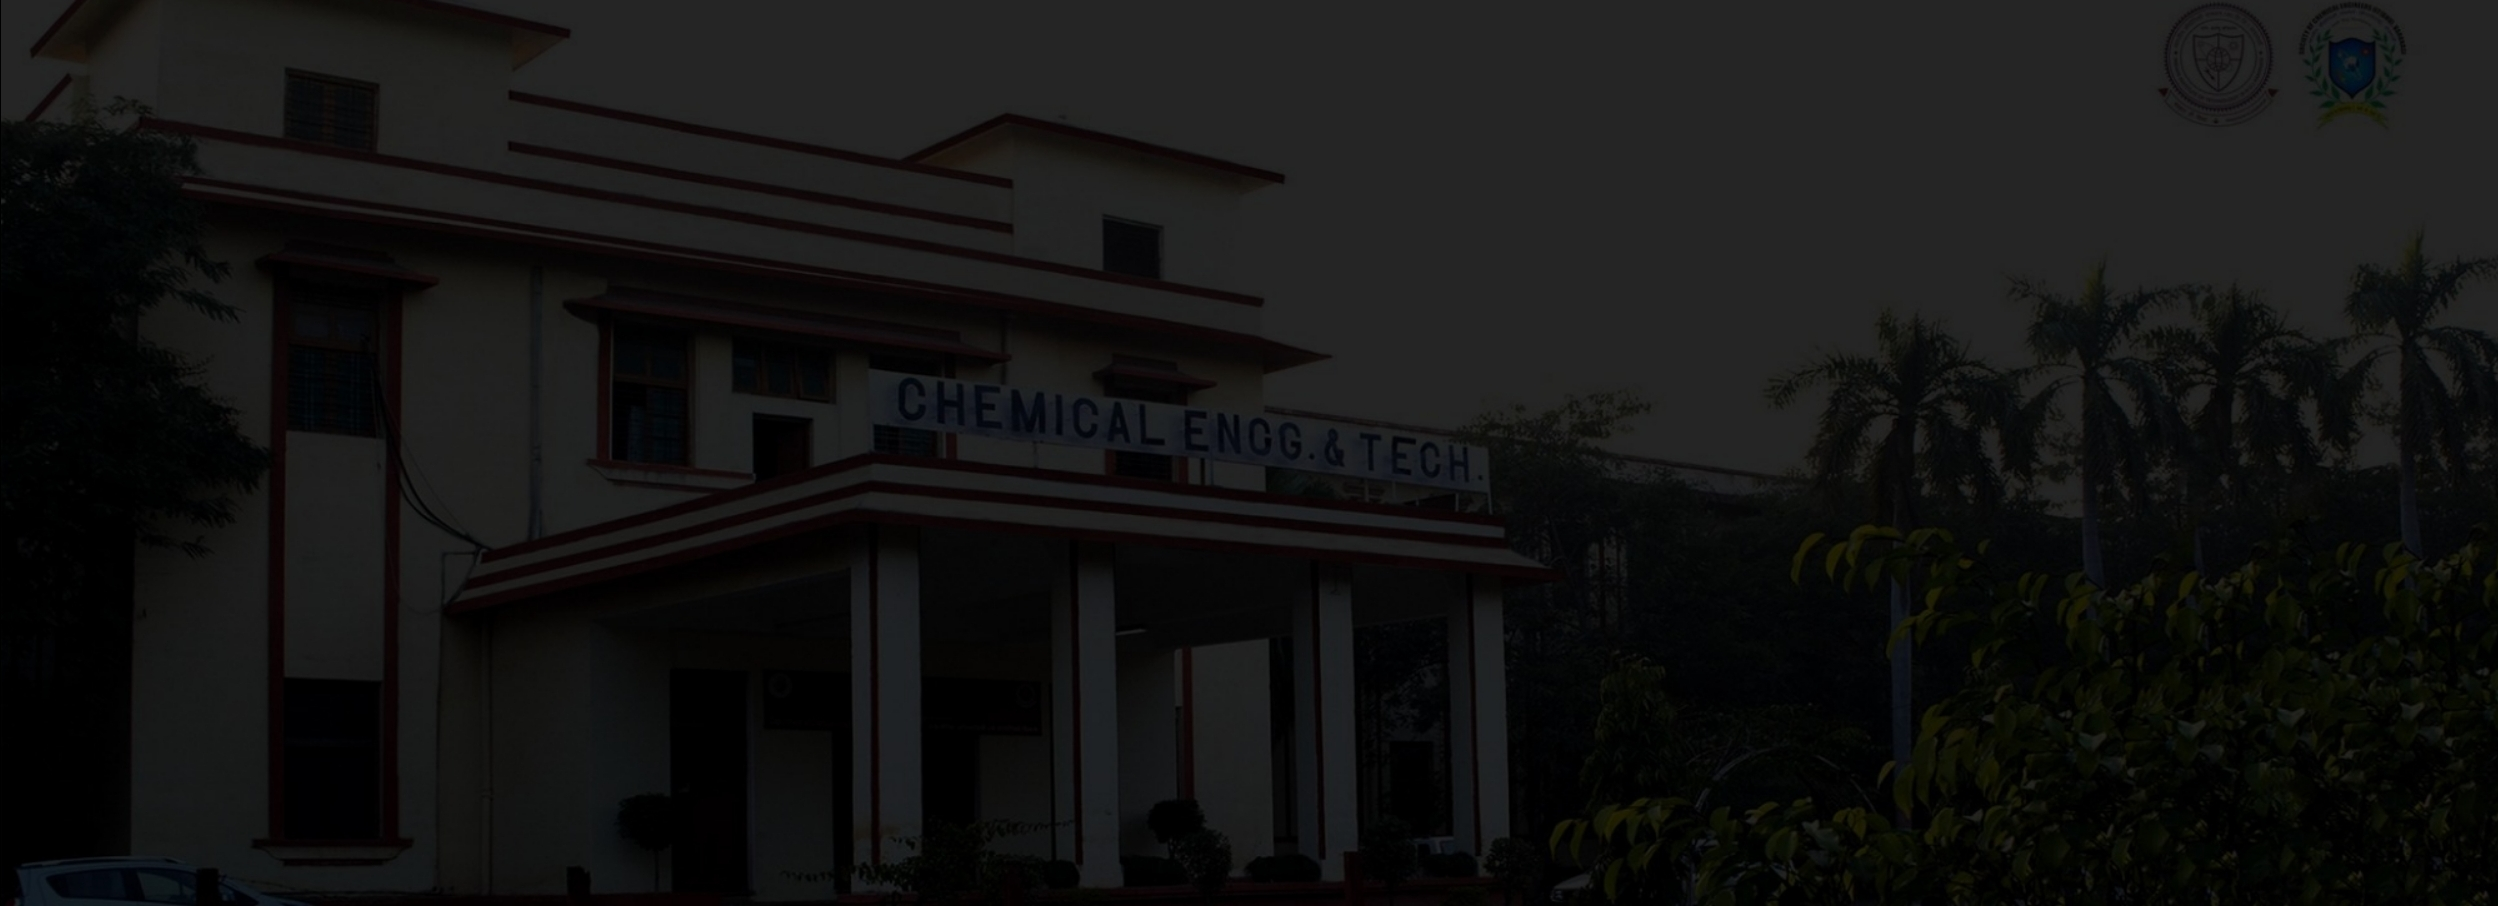
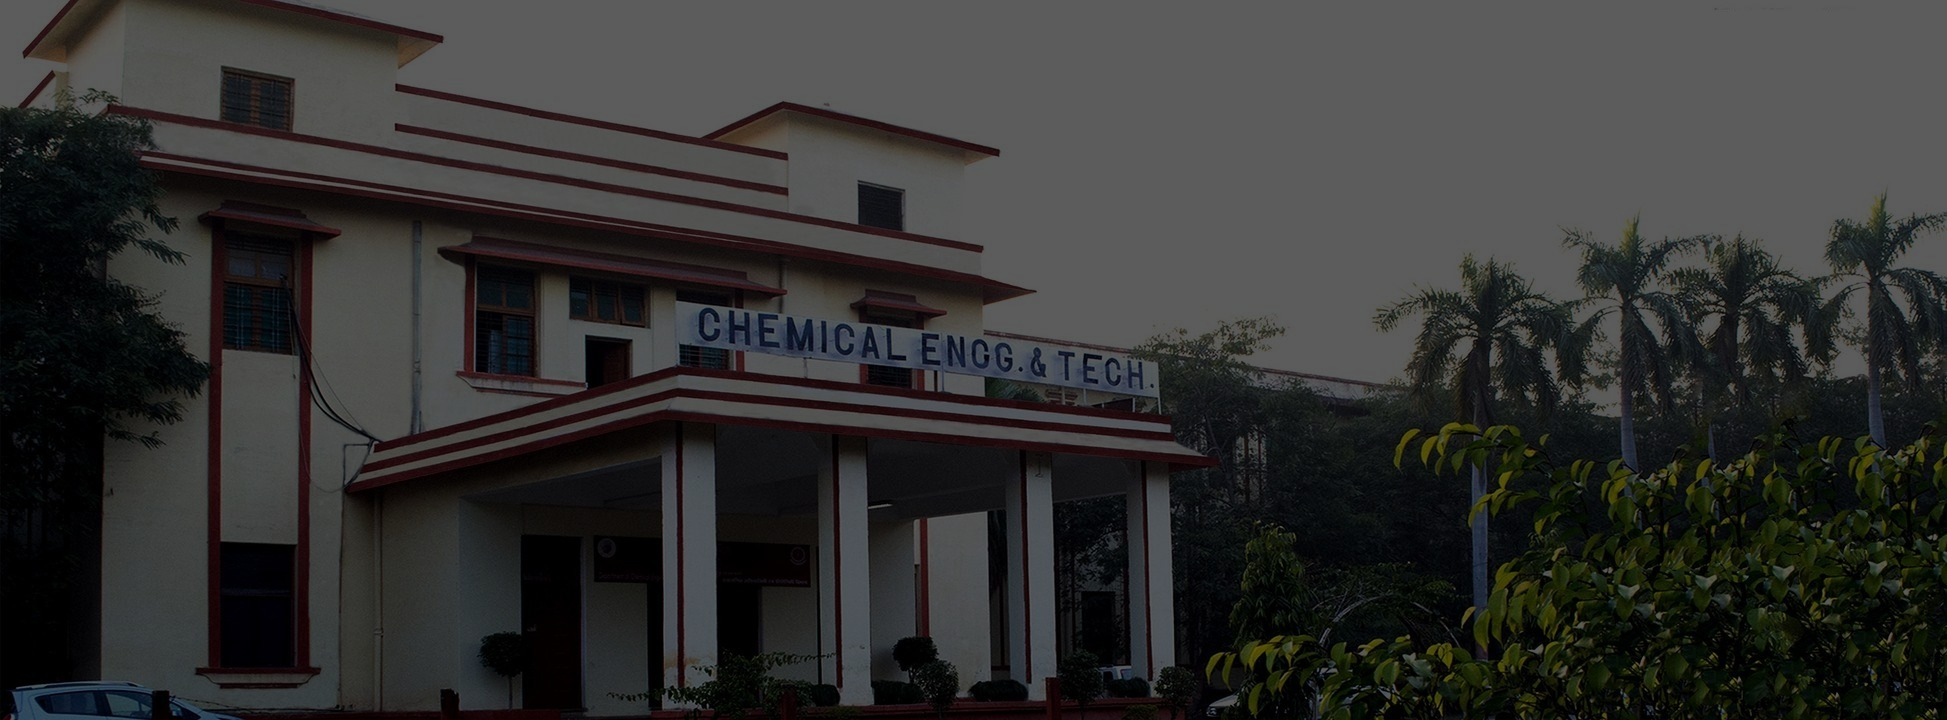
Brighten Home Image

diff --git a/sochem/src/components/allevents.jsx b/sochem/src/components/allevents.jsx
@@ -1,28 +1,31 @@
 import React, { useState, useEffect } from 'react';
 import './allevents.css';
+import Footer from './footer';
 var FontAwesome = require('react-fontawesome');
 
 
 function Allevents(props) {
 
     return (
-        <div className="row mt-5 p-3">
-            {props.eventlist.map( (evt, index) => {
-                return (
-                     <a href={`events/${evt.title}`} onClick={ () => {props.eventSelected(evt.id)}} className="col-12 col-sm-6 col-md-4 mb-5 bg-light p-4 zoom">
-                            <span>
+        <div>
+            <div className="row mt-5 p-3">
+                {props.eventlist.map( (evt, index) => {
+                    return (
+                        <a href={`events/${evt.title.toLowerCase()}`} className="col-12 col-sm-6 col-md-4 mb-5 bg-light p-4 zoom">
                                 <span>
-                                    <img src={evt.cover1} class="img-fluid"></img>
+                                    <span>
+                                        <img src={evt.cover1} class="img-fluid"></img>
+                                    </span>
+                                    <div>
+                                        <div className="event-title-all">{evt.title}</div>
+                                        <div className="event-info-all"><FontAwesome name="map-marker"/> {evt.venue}</div>
+                                        <div className="event-info-all"><FontAwesome name="calendar"/> {evt.date}</div>
+                                    </div>
                                 </span>
-                                <div>
-                                    <div className="event-title-all">{evt.title}</div>
-                                    <div className="event-info-all"><FontAwesome name="map-marker"/> {evt.venue}</div>
-                                    <div className="event-info-all"><FontAwesome name="calendar"/> {evt.date}</div>
-                                </div>
-                            </span>
-                     </a>
-                );
-            })}
+                        </a>
+                    );
+                })}
+            </div>
         </div>
     )
 }

diff --git a/sochem/src/components/caruosel.jsx b/sochem/src/components/caruosel.jsx
@@ -14,13 +14,8 @@ import './carousel.css';
 
 function Carousel(){
     return(
-<div className="img-fluid container d-none d-sm-block img-fluid">
+<div id="carousel-main-div" className="img-fluid container d-none d-sm-block img-fluid bg-light">
       <div id="carouselExampleIndicators" class="img-fluid carousel carousel-home slide" data-ride="carousel">
-          <ol class="carousel-indicators">
-            <li data-target="#carouselExampleIndicators" data-slide-to="0" class="active"></li>
-            <li data-target="#carouselExampleIndicators" data-slide-to="1"></li>
-            <li data-target="#carouselExampleIndicators" data-slide-to="2"></li>
-          </ol>
         <div class="img-fluid carousel-inner">
           <div class="img-fluid carousel-item active">
             <img class="d-block w-100 carousel-img" src={slide3} alt="First slide"/>

diff --git a/sochem/src/components/anevent.jsx b/sochem/src/components/anevent.jsx
@@ -3,6 +3,7 @@ import API from '../api-service';
 import { useParams } from 'react-router-dom';
 import { useCookies } from 'react-cookie';
 import Navbar from './navbar';
+import Footer from './footer';
 var FontAwesome = require('react-fontawesome');
 
 function Anevent() {
@@ -14,7 +15,7 @@ function Anevent() {
 
     const allEvents = () => {
         API.getEvents({'token':token['mr-token']})
-           .then( resp => setEvent(resp.find( ev => ev.title === String(title))))
+           .then( resp => setEvent(resp.find( ev => ev.title.toLowerCase() === String(title))))
            .catch( error => console.log(error))
     }
 
@@ -82,6 +83,7 @@ function Anevent() {
             <h1>Event doesn't exist</h1>
             }
         </div>
+        <Footer/>
         </div>
     )
 }

diff --git a/sochem/src/components/events.jsx b/sochem/src/components/events.jsx
@@ -32,16 +32,6 @@ function Events() {
     return (
         <div>
             <Navbar/>
-            {/* <div class="sidenav">
-                <a href="" onClick={ () => {eventSelected(null)}}><h1 id="past"><strong>Past Events</strong></h1></a>
-                <hr/>
-
-                {eventlist.map( evt => {
-                    return(
-                        <a href="#" onClick={ () => {eventSelected(evt.id)}}>{evt.title}</a>
-                    );
-                })}    
-            </div> */}
             <div class="container">
                 {eventnum ?
                     eventlist.map( evt => {
@@ -57,6 +47,7 @@ function Events() {
                 </div>
                 }
             </div>
+            <Footer/>
         </div>
     )
 }

diff --git a/sochem/src/components/auth.jsx b/sochem/src/components/auth.jsx
@@ -47,7 +47,7 @@ function Login(){
     return(
         <div>
             <Navbar/>
-            <div className="jumbotron mb-5 bg-dark" style={{marginTop:'70px'}}>
+            <div className="jumbotron mb-5 bg-dark">
                 <h1 className="text-center text-light">SoChem Login</h1>
             </div>
             <div className="container text-center border shadow p-5 mt-5">

diff --git a/sochem/src/components/carousel.css b/sochem/src/components/carousel.css
@@ -1,6 +1,5 @@
 .carousel-home{
     height: 40rem;
-    margin-top: 0.5rem;
     width: auto;
   }
   .carousel-img{
@@ -9,8 +8,8 @@
     max-height: 38rem;
   }
 
-  #carousel-man-div{
-      padding: 4rem;
+  #carousel-main-div{
+    padding: 5rem;
   }
   @media (max-width:800px){
       #carousel-main-div{

diff --git a/sochem/src/components/testimonials.jsx b/sochem/src/components/testimonials.jsx
@@ -7,7 +7,7 @@ import img3 from './images/test3.jpeg';
 
 function Testimonials(){
     return(
-        <section className="wrapper container">
+        <section className="mb-5  pb-5 wrapper container">
         <div className="inner">
             <div className="testimonials">
                 <section>
